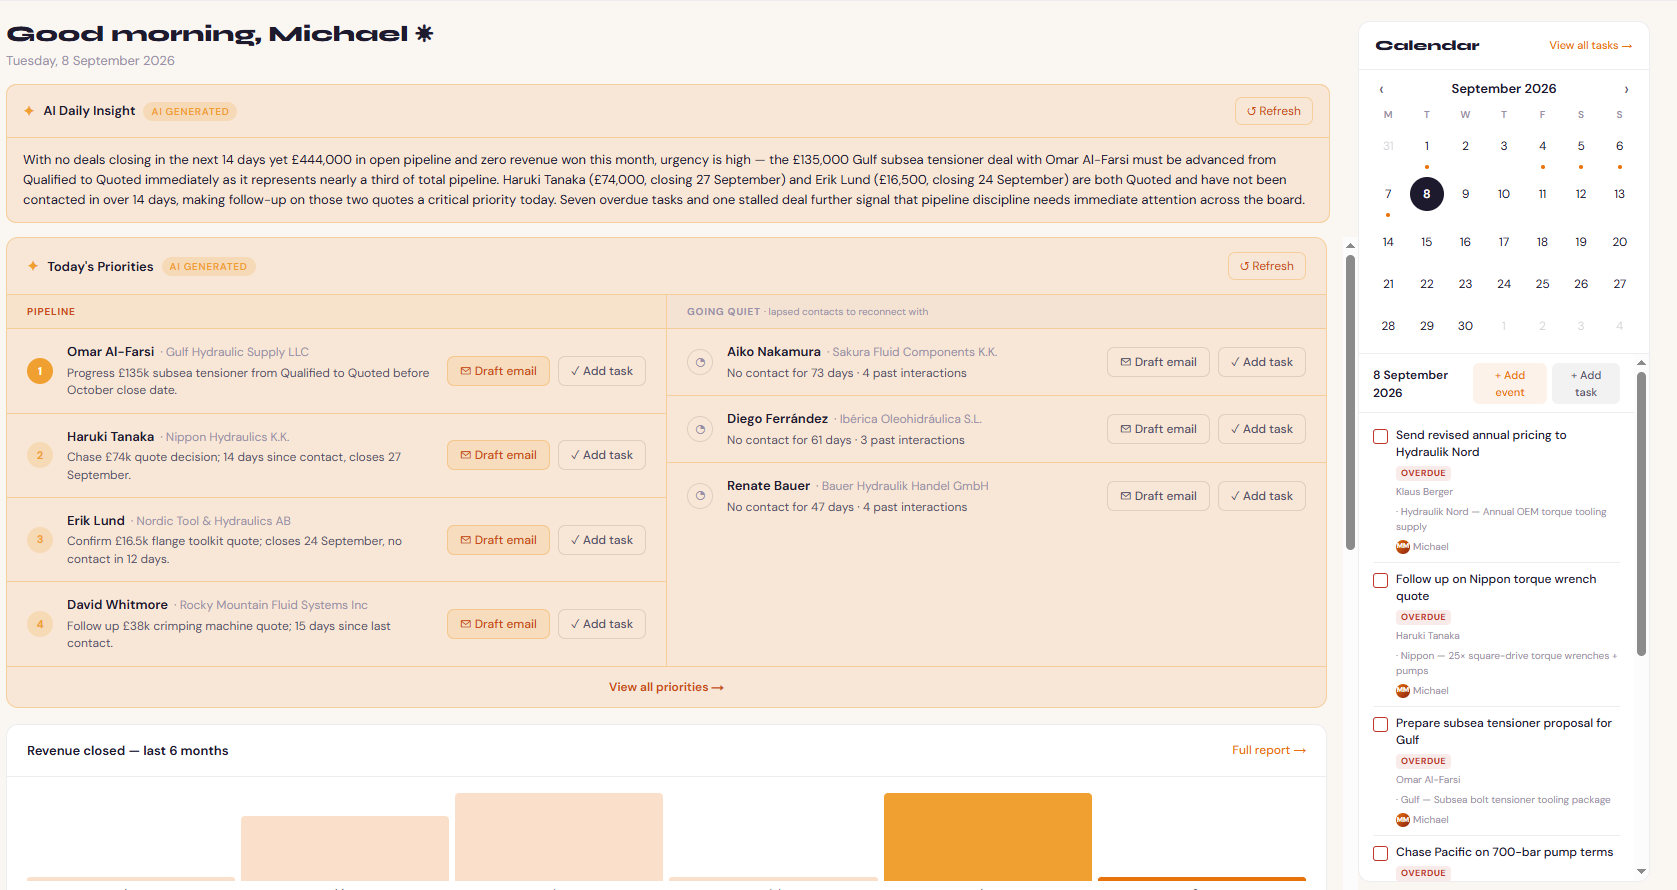
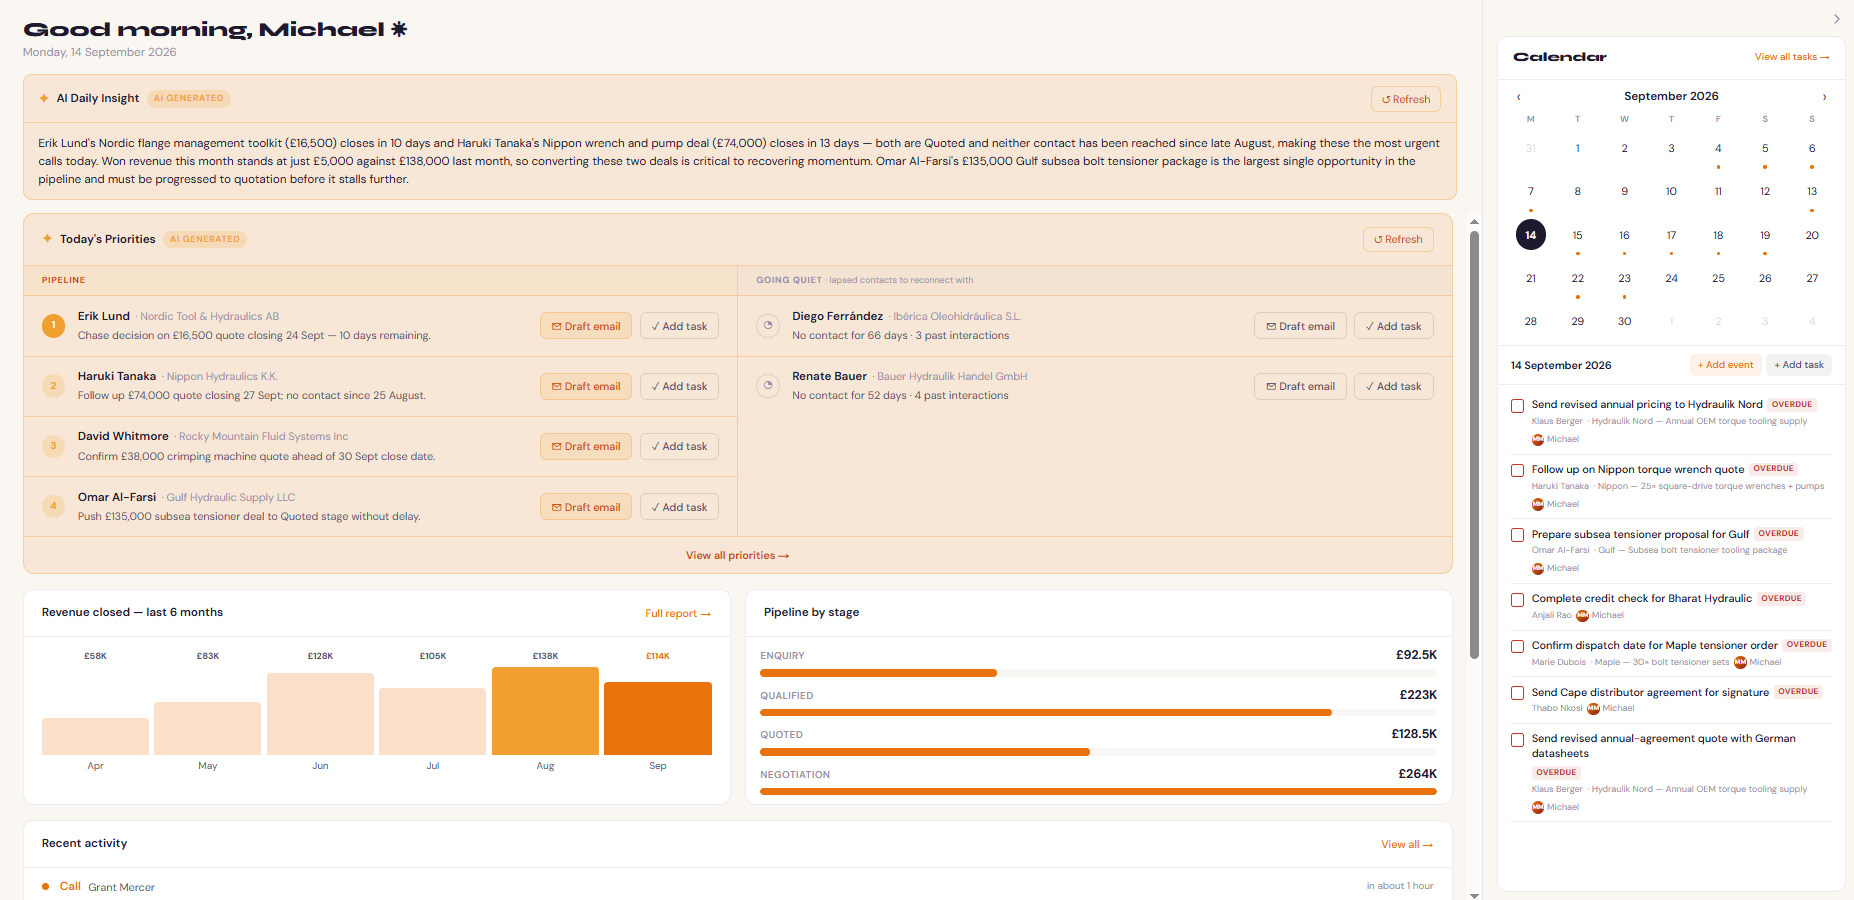
Hero: auto-crossfade the dashboard between light and dark mode
Show off dark mode to every visitor — the hero dashboard now gently fades
between light and dark (5s each, ~1s fade, 12s loop). Respects
prefers-reduced-motion (static light shot). New light/dark captures; dark image
is decorative (aria-hidden) so the descriptive caption isn't duplicated.

diff --git a/index.html b/index.html
@@ -101,8 +101,16 @@ nav{background:var(--navy);padding:0 48px;height:68px;display:flex;align-items:c
 .app-bar-dot{width:10px;height:10px;border-radius:50%}
 .app-bar-title{font-size:11px;color:rgba(255,255,255,0.35);margin-left:8px;font-weight:500}
 .app-content{padding:20px}
-.app-shot{padding:0;background:var(--cream2)}
+.app-shot{padding:0;background:var(--cream2);position:relative}
 .app-shot img{display:block;width:100%;height:auto}
+/* Light/dark dashboard crossfade — shows off dark mode to every visitor */
+.app-shot .app-shot-dark{position:absolute;inset:0;width:100%;height:100%;object-fit:cover;opacity:0}
+@media (prefers-reduced-motion: no-preference){
+  .app-shot .app-shot-light{animation:dashSwapLight 12s ease-in-out infinite}
+  .app-shot .app-shot-dark{animation:dashSwapDark 12s ease-in-out infinite}
+}
+@keyframes dashSwapLight{0%,42%{opacity:1}50%,92%{opacity:0}100%{opacity:1}}
+@keyframes dashSwapDark{0%,42%{opacity:0}50%,92%{opacity:1}100%{opacity:0}}
 .app-section-label{font-size:9px;font-weight:700;letter-spacing:.12em;text-transform:uppercase;color:var(--orange);margin-bottom:12px}
 .pipeline-cols{display:grid;grid-template-columns:repeat(4,1fr);gap:8px;margin-bottom:16px}
 .pipeline-col{background:var(--cream);border-radius:8px;padding:10px}
@@ -492,7 +500,8 @@ footer{background:var(--navy);border-top:1px solid rgba(255,255,255,0.06);paddin
     <div class="hero-preview">
       <div class="app-window">
         <div class="app-content app-shot">
-          <img src="/img/foxlink-dashboard.png" width="1677" height="890" alt="The FoxLink dashboard — AI daily brief, AI-ranked Today's Priorities and your calendar" fetchpriority="high">
+          <img class="app-shot-light" src="/img/foxlink-dashboard.png" width="1854" height="900" alt="The FoxLink dashboard — AI daily brief, AI-ranked Today's Priorities and your calendar" fetchpriority="high">
+          <img class="app-shot-dark" src="/img/foxlink-dashboard-dark.png" width="1854" height="900" alt="" aria-hidden="true" loading="lazy">
         </div>
       </div>
     </div>
